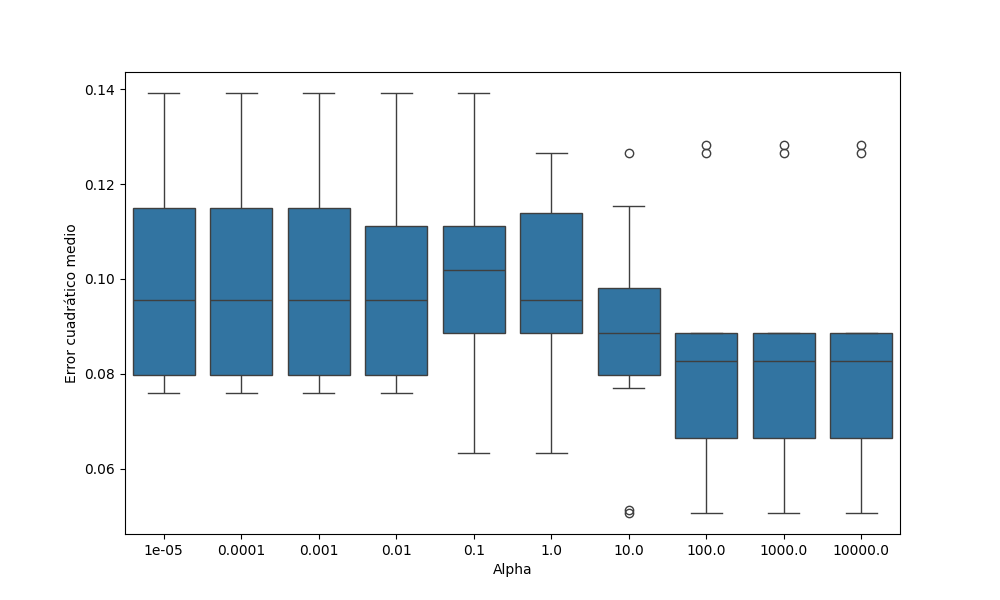
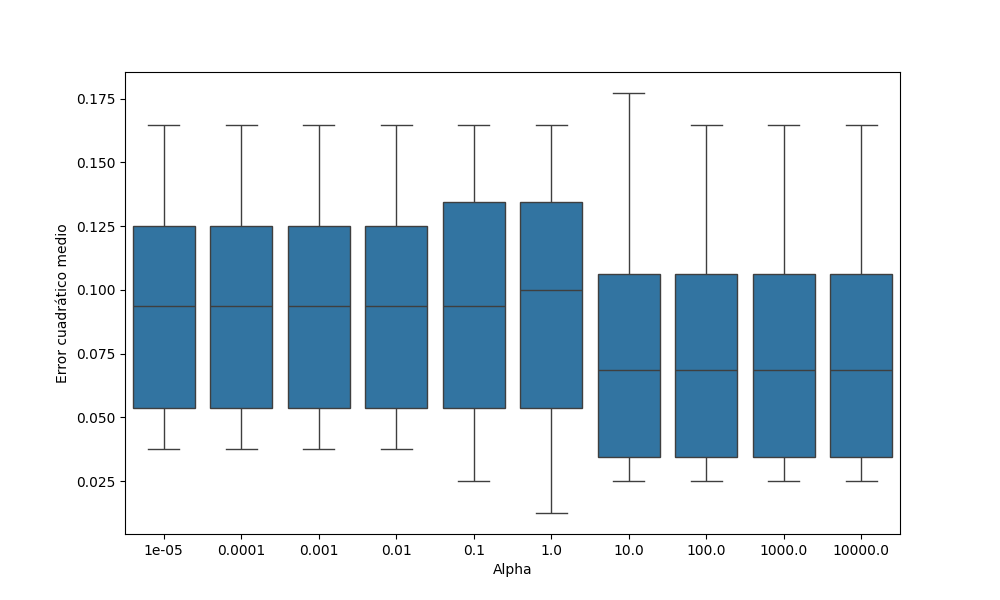
correcciones

diff --git a/TP4/codigo_final.py b/TP4/codigo_final.py
@@ -37,14 +37,14 @@ pd.options.display.float_format = '{:.2f}'.format
 
 # configurando directorio de trabajo
 #os.chdir("/Users/diegofmeijide/Documents/GitHub/Trabajos-Pr-cticos/TP4")
-os.chdir("C:/Users/sofia/Desktop/Maestría/Tercer trimestre/Machine Learning/Trabajos-Pr-cticos/TP4")
+#os.chdir("C:/Users/sofia/Desktop/Maestría/Tercer trimestre/Machine Learning/Trabajos-Pr-cticos/TP4")
 
 # %% importamos datos
 
-h_2024 = pd.read_excel("input/usu_hogar_T124.xlsx")
-i_2024 = pd.read_excel("input/usu_individual_T124.xlsx")
-h_2004 = pd.read_stata("input/Hogar_t104.dta", convert_categoricals=False)
-i_2004 = pd.read_stata("input/Individual_t104.dta", convert_categoricals=False)
+h_2024 = pd.read_excel("./input/usu_hogar_T124.xlsx")
+i_2024 = pd.read_excel("./input/usu_individual_T124.xlsx")
+h_2004 = pd.read_stata("./input/Hogar_t104.dta", convert_categoricals=False)
+i_2004 = pd.read_stata("./input/Individual_t104.dta", convert_categoricals=False)
 
 # %% filtramos Bahía Blanca en 2024
 
@@ -196,8 +196,8 @@ fig, ax = plt.subplots(figsize=(8, 4))
 sns.boxplot(x=data_x, ax=ax, color='yellowgreen', flierprops={'marker': 'o', 'color': 'red', 'alpha': 0.5})
 ax.set_title('')
 ax.set_xlabel('Ingreso Per Cápita Familiar (en millones de pesos)', fontsize=14)
+fig.savefig("./output/boxplot_ipcf.png")
 plt.show()
-#fig.savefig("C:/Users/sofia/Desktop/Maestría/Tercer trimestre/Machine Learning/Trabajos-Pr-cticos/TP4/output/boxplot_ipcf.png")
 
 # 2. Ingreso no laboral per cápita 
 # Nos aseguramos de que 't_vi' esté en formato correcto
@@ -207,8 +207,9 @@ fig, ax = plt.subplots(figsize=(8, 4))
 sns.boxplot(x=data_x2, ax=ax, color='yellowgreen', flierprops={'marker': 'o', 'color': 'red', 'alpha': 0.5})
 ax.set_title('')
 ax.set_xlabel('Ingreso No Laboral Per Cápita (en millones de pesos)', fontsize=14)
+fig.savefig("./output/boxplot_tvi.png")
 plt.show()
-#fig.savefig("C:/Users/sofia/Desktop/Maestría/Tercer trimestre/Machine Learning/Trabajos-Pr-cticos/TP4/output/boxplot_tvi.png")
+
 
 # 3. Edad
 # Nos aseguramos de que 't_vi' esté en formato correcto
@@ -218,8 +219,8 @@ fig, ax = plt.subplots(figsize=(8, 4))
 sns.boxplot(x=data_x3, ax=ax, color='yellowgreen', flierprops={'marker': 'o', 'color': 'red', 'alpha': 0.5})
 ax.set_title('')
 ax.set_xlabel('Edad', fontsize=14)
+fig.savefig("./output/boxplot_edad.png")
 plt.show()
-#fig.savefig("C:/Users/sofia/Desktop/Maestría/Tercer trimestre/Machine Learning/Trabajos-Pr-cticos/TP4/output/boxplot_edad.png")
 
 # %% 1.3 Generamos dummys para variables categóricas 
 
@@ -528,6 +529,8 @@ for p in ['l1', 'l2']:
         'auc': auc,
         'acc': accuracy
     })
+    
+    plot_roc(fpr, tpr, auc, 2004, p)
 
 # Para 2024
 for p in ['l1', 'l2']:
@@ -541,6 +544,8 @@ for p in ['l1', 'l2']:
         'auc': auc,
         'acc': accuracy
     })
+    
+    plot_roc(fpr, tpr, auc, 2024, p)
 
 # 2) Imprimir el código LaTeX de la tabla en pantalla (stdout).
 #    Si deseas guardarlo en un archivo, cambia los 'print' por escrituras en un archivo .tex.
@@ -743,7 +748,7 @@ def Ridge_logit(x_train, y_train, x_test, y_test, alpha):
 
 # %% 2.7 Resultados Ridge 2004
 
-mse = Ridge_logit(x_train_2004, y_train_2004, x_test_2004, y_test_2004, 100) # Calculamos el mse para Ridge en 2004
+mse = Ridge_logit(x_train_2004, y_train_2004, x_test_2004, y_test_2004, 10) # Calculamos el mse para Ridge en 2004
 print(f'El ECM para Ridge en 2004 es: {mse}')
 
 
@@ -772,3 +777,5 @@ print(f'El ECM para Ridge en 2004 es: {mse}')
 
 
 
+
+# %%
